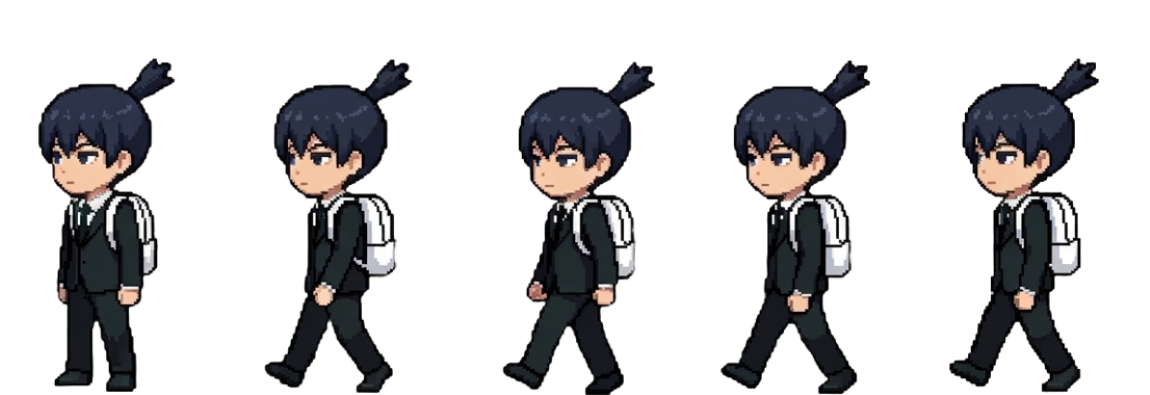
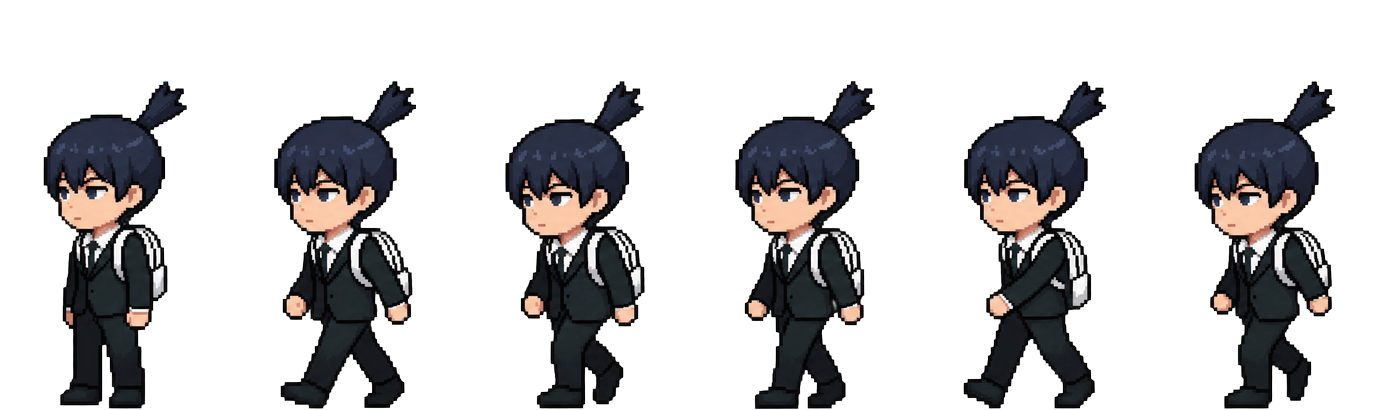
feat(player): 更新角色精灵表并优化走动动画与体型比例

diff --git a/js/scenes/BootScene.js b/js/scenes/BootScene.js
@@ -15,14 +15,14 @@ export default class BootScene extends Phaser.Scene {
         });
         this.load.spritesheet('player_l', 'js/Photo/Qiu/Qiu_L.png', {
             frameWidth: 230,
-            frameHeight: 395,
+            frameHeight: 410,
         });
         // 不在这里一次性加载所有的背景大图和BGM，将它们延迟到 LoadingScene!
     }
 
     create() {
         // --- 1. 角色动画注册 ---
-        // 右方向：帧 0 = 站立，帧 1-4 = 走动
+        // 右方向：帧 0 = 站立，帧 1-5 = 走动
         this.anims.create({
             key: 'idle_r',
             frames: this.anims.generateFrameNumbers('player_r', { start: 0, end: 0 }),
@@ -31,11 +31,11 @@ export default class BootScene extends Phaser.Scene {
         });
         this.anims.create({
             key: 'walk_r',
-            frames: this.anims.generateFrameNumbers('player_r', { start: 1, end: 4 }),
-            frameRate: 8,
+            frames: this.anims.generateFrameNumbers('player_r', { start: 1, end: 5 }),
+            frameRate: 6,
             repeat: -1,
         });
-        // 左方向：帧 0 = 站立，帧 1-4 = 走动
+        // 左方向：帧 0 = 站立，帧 1-5 = 走动
         this.anims.create({
             key: 'idle_l',
             frames: this.anims.generateFrameNumbers('player_l', { start: 0, end: 0 }),
@@ -44,8 +44,8 @@ export default class BootScene extends Phaser.Scene {
         });
         this.anims.create({
             key: 'walk_l',
-            frames: this.anims.generateFrameNumbers('player_l', { start: 1, end: 4 }),
-            frameRate: 8,
+            frames: this.anims.generateFrameNumbers('player_l', { start: 1, end: 5 }),
+            frameRate: 6,
             repeat: -1,
         });
 

diff --git a/js/scenes/LevelScene.js b/js/scenes/LevelScene.js
@@ -106,7 +106,7 @@ export default class LevelScene extends Phaser.Scene {
 
         // 3. 玩家（使用精灵图表动画）
         this.player = this.physics.add.sprite(100, CFG.H - CFG.GROUND_H - 41, 'player_r');
-        this.player.setScale(0.21, 0.18);
+        this.player.setScale(0.21, 0.20);
         this.player.setCollideWorldBounds(false);
         this.player.setGravityY(CFG.GRAVITY);
         // 精灵图帧 230×410，角色占中间区域，设置碰撞体覆盖主体
@@ -546,7 +546,7 @@ export default class LevelScene extends Phaser.Scene {
             this.player.setAccelerationX(-CFG.ACCEL);
             if (this.facingRight) {
                 this.facingRight = false;
-                this.player.body.setSize(120, 355);
+                this.player.body.setSize(120, 370);
                 this.player.body.setOffset(55, 30);
             }
             this.player.play('walk_l', true);
